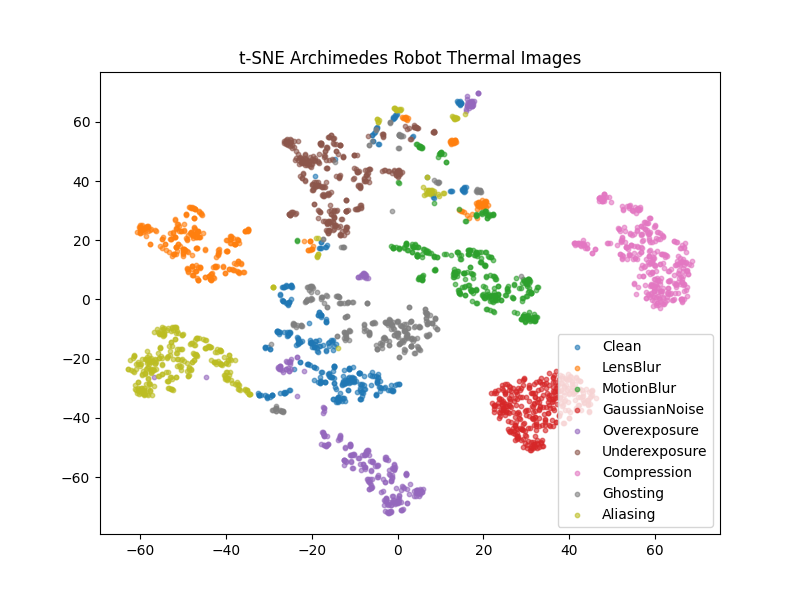
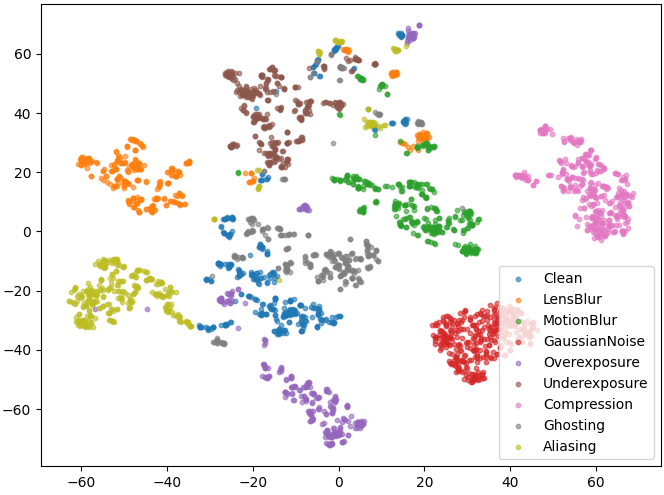
readme in progress

diff --git a/test_distortions.py b/test_distortions.py
@@ -14,7 +14,7 @@ if __name__ == "__main__":
     screen_height = user32.GetSystemMetrics(1)
     print(f"Screen size: {screen_width}x{screen_height}")
 
-    cap = cv2.VideoCapture("./data/1.MP4")
+    cap = cv2.VideoCapture("./data/2.MP4")
     ret, frame = cap.read()
     print(f"Video frame size: {frame.shape[1]}x{frame.shape[0]}")
     # Use a larger size, e.g., 80% of original
@@ -35,16 +35,16 @@ if __name__ == "__main__":
         "Overexposure": {'func':lambda img: Overexposure(factor=2.5)(img)[0]},
         "Underexposure": {'func':lambda img: Underexposure(factor=0.3)(img)[0]},
         "Compression": {'func':lambda img: Compression(quality=5)(img)[0]},
-        "Ghosting": {'func':lambda img: Ghosting(shift=10, alpha=0.6)(img)[0]},
-        # "Blackout": {'func':lambda img: Blackout()(img)[0]},
+        "Ghosting": {'func':lambda img: Ghosting(shift=10, alpha=0.6)(img)[0]},        
         "Noise": {'func':lambda img: GaussianNoise(mean=0, std=25)(img)[0]},
+        "Blackout": {'func':lambda img: Blackout()(img)[0]},
         # "Color Distortion": lambda img: ColorDistortion()(img)[0],
-        # "Glare": lambda img: Glare()(img)[0],
-        # "Flicker": lambda img: Flicker(factor=1.8)(img)[0],
-        # "Freeze": lambda img: FrameFreeze()(img)[0],
-        # "Obstruction": lambda img: Obstruction()(img)[0],
+        # "Glare": {'func':lambda img: Glare()(img)[0]},
+        # "Flicker": {'func':lambda img: Flicker(factor=1.8)(img)[0]},
+        # "Freeze": {'func':lambda img: FrameFreeze()(img)[0]},
+        # "Obstruction": {'func':lambda img: Obstruction()(img)[0]},
         # "Crop": {'func':lambda img: Crop()(img)[0]}
-        "Aliasing": {'func':lambda img: Aliasing(factor=4)(img)[0]}
+        # "Aliasing": {'func':lambda img: Aliasing(factor=4)(img)[0]}
     }
     for k in distortions.keys():
         fliqe.create_session(k)
@@ -55,8 +55,8 @@ if __name__ == "__main__":
         if not ret:
             break
         processed_frames += 1
-        # if processed_frames < 150:
-        #     continue
+        if processed_frames < 150:
+            continue
         total_frames = int(cap.get(cv2.CAP_PROP_FRAME_COUNT))
         print(f"Processing frame {processed_frames}/{total_frames}", end='\r')
         frame_small = cv2.resize(frame, small_size)
@@ -115,7 +115,7 @@ if __name__ == "__main__":
         )
         cv2.imshow("Distorted Frames", combined_frame_padded)
         if cv2.waitKey(1) & 0xFF == ord('q'):
-            cv2.imwrite("distorted_frames.png", combined_frame_padded)  # Uncomment to save the image
+            # cv2.imwrite("distorted_frames.png", combined_frame_padded)  # Uncomment to save the image
             break
         
         # if processed_frames == 600:

diff --git a/README.md b/README.md
@@ -4,15 +4,25 @@ A tool for evaluating and analyzing image quality from FLIR thermal cameras.
 ![Distorted Frames with Scores](pics/distorted_frames_with_scores.png)
 
 Download pre-trained models:
-- [FLIQE Encoder Model](https://github.com/icsa-hua/FLir-Image-Quality-Estimator/releases/download/uploading_models/resnet50_128_out.pth)
-- [FLIQE Binary Classifier Model](https://github.com/icsa-hua/FLir-Image-Quality-Estimator/releases/download/uploading_models/binary_head.pth)
+- [FLIQE Encoder](https://github.com/icsa-hua/FLir-Image-Quality-Estimator/releases/download/uploading_models/resnet50_128_out.pth)
+- [FLIQE Encoder + Binary Head](https://github.com/icsa-hua/FLir-Image-Quality-Estimator/releases/download/uploading_models/binary_head.pth)
+
+## How to use
+```python
+from flir_iqa import FLIQE
+
+fliqe = FLIQE(
+    quality_model_path='models/encoder_with_binary_head.pth'
+)
+score = fliqe.estimate_image_quality(image)
+print("Image quality score:", score)
+```
 
 ## How it works
-
 FLIQE employs a sophisticated machine learning approach to assess the quality of thermal images from FLIR cameras. The system works through several key stages:
 
 ### 1. Feature Extraction with Pre-trained Networks
-The system leverages powerful pre-trained computer vision models (ResNet18, ResNet50, and Vision Transformer) as feature extractors. These networks, originally trained on large-scale image datasets, provide robust visual representations that capture important structural and textural patterns in thermal images.
+The system leverages powerful pre-trained computer vision model (ResNet50) as feature extractor. These network, originally trained on large-scale image datasets, provide robust visual representations that capture important structural and textural patterns in thermal images.
 
 ### 2. Contrastive Learning Framework
 FLIQE uses supervised contrastive learning to train an embedding space where images with similar quality characteristics are positioned close together, while images with different quality issues are separated. This approach allows the model to learn nuanced quality representations without requiring explicit quality scores for training.
@@ -24,6 +34,7 @@ To train the quality assessment system, FLIQE generates various types of image d
 - **Exposure problems**: Overexposure and underexposure conditions that affect thermal sensitivity
 - **Compression artifacts**: Quality degradation from image compression during storage or transmission
 - **Thermal-specific issues**: Ghosting effects and aliasing that are particularly relevant to thermal imaging
+![t-SNE Visualization of Distorted Images](pics/tsne_distorted_images.png)
 
 ### 4. Multi-Stage Quality Assessment
 The system operates in two phases:
